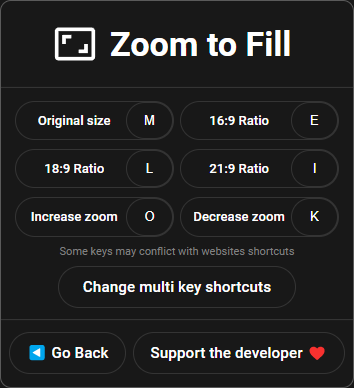
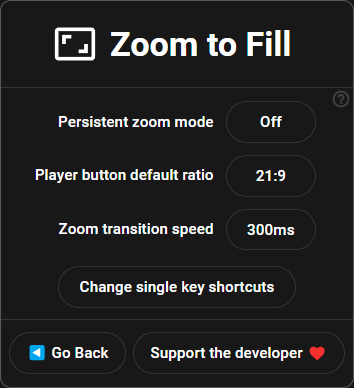
1.0

diff --git a/index.html b/index.html
@@ -29,11 +29,15 @@
                 <p>Zoom to Fill is a web browser extension for chromium browsers, as a solution for incorrect aspect
                     ratio
                     videos on ultrawide monitors.</p>
+                <p style="display: flex;align-items: center;">You can access the store link of the extension here:
+                    <a href="https://chrome.google.com/webstore/detail/zoom-to-fill-ultrawide-vi/adpjimagbfpknkodpofjphpbdlfkeiho"
+                        target="_blank"><img class="store" src="imgs/store.png"></a>
+                </p>
                 <p>
                     Sometimes, videos have fixed black bars, usually this isn't a problem, but when you are watching
                     them on unconventional aspect ratios (like 21:9) so much screen space can be wasted by a black area,
                     making the
-                    video look on the center of the screen instead of displaying truly on fullscreen. An concrete
+                    video look on the center of the screen instead of displaying truly on fullscreen. A concrete
                     example of what I mean is shown bellow.
                 </p>
                 <p>With around 60.000 users and counting, this extension offers intuitive user experience to handle
@@ -44,20 +48,20 @@
             <div>
                 <h1>So, how does it work?</h1>
                 <p>
-                    The extension calculates the relation between the true video size and the screen size and gets a
-                    number that is used to scale the video accordingly, eliminating black bars of the video.
+                    The extension calculates the relation between the true video size and the screen size and gets the
+                    scale that is gonna be applied to the video accordingly, eliminating black bars of the video.
                 </p>
-                <p>The usage is very straight foward, mainly, the extension shows it's magic by just clicking on the
+                <p style="margin-bottom: 40px;">The usage is very straight foward, mainly, the extension shows it's
+                    magic by just clicking on the
                     player button inserted on the video player, as well manually adjusting the zoom by
                     scrolling on the button too.</p>
                 <div class="video-example">
                     <span id="state">Original</span>
                     <div class="button-group">
                         <svg width="60px" height="60px" viewBox="0 0 36 36">
-                            <use class="svg-shadow" xlink:href="#svg-zoom"></use>
-                            <path id="svg-zoom" d="M25,18h-2v3h-3v2h5V18z M13,15h3v-2h-5v5h2V15z
-                                                 M27,9H9c-1.1,0-2,0.9-2,2v14c0,1.1,0.9,2,2,2h18c1.1,0,2-0.9,2-2V11C29,9.9,28.1,9,27,9z
-                                                 M27,25H9V11h18V25z" class="ytp-svg-fill"></path>
+                            <path
+                                d="M25,18h-2v3h-3v2h5V18z M13,15h3v-2h-5v5h2V15z M27,9H9c-1.1,0-2,0.9-2,2v14c0,1.1,0.9,2,2,2h18c1.1,0,2-0.9,2-2V11C29,9.9,28.1,9,27,9z M27,25H9V11h18V25z">
+                            </path>
                         </svg>
                     </div>
                     <video src="vids/birdn.m4v" autoplay loop playsinline muted></video>
@@ -67,7 +71,7 @@
                         adjust <img style="width: 25px;margin-bottom: 5px;" src="imgs/arrow.png"> </span>
                 </div>
                 <div class="manual" style="display: flex;">
-                    <p style="margin-top: 28px;">To use the manual adjusment, you have to <b>place your cursor on the
+                    <p style="margin-top: 35px;">To use the manual adjusment, you have to <b>place your cursor on the
                             button</b> and then
                         use the
                         <b>scroll</b> of your mouse to manually adjust.
@@ -76,12 +80,12 @@
                         achieve the same
                         functionality.
                     </p>
-                    <img style="height: 100%;margin-top: 30px;" src="imgs/manual.png">
+                    <img style="height: 100%;margin-top: 45px;" src="imgs/manual.png">
                 </div>
             </div>
             <div>
                 <h2>Popup interface</h2>
-                <p style="font-size: 17.7px;">The extension has incorporated a popup with tons of functionality.</p>
+                <p style="font-size: 17.7px;">The extension have incorporated a popup with tons of functionality.</p>
                 <div class="popup">
                     <img src="imgs/popup.png">
                     <img src="imgs/popup2.png">
@@ -91,6 +95,31 @@
                     <br>
                     Comes with simple controls to manually adjust your desired scale, and lower buttons let you choose a
                     predefined aspect ratio scale.
+                </p>
+
+                <p>On the settings section, you can configure different options such as:
+                    <li><b>Persistent zoom mode:</b>
+                        <ul>This means that the selected scale level will persist through the tab
+                            session.
+                            <br>For example, you are watching a series with the zoom activated, when you get to watch
+                            another
+                            episode your zoom will
+                            persist.
+                        </ul>
+                    </li>
+                    <li><b>Player button default ratio:</b>
+                        <ul>This means that you can also select which is the predefined aspect
+                            ratio you
+                            prefer to apply when clicking on the player extension button.</ul>
+                    </li>
+                    <li><b>Zoom transition speed:</b>
+                        <ul>
+                            This simply means that the smoothness of the transition of the scale can
+                            be adjusted.</ul>
+                    </li>
+                    <li><b>Keyboard shortcuts:</b>
+                        <ul>Intuitive configuration for different shortcuts can be set up</ul>
+                    </li>
                 </p>
             </div>
         </div>

diff --git a/style.css b/style.css
@@ -2,6 +2,7 @@
 
 html {
   scroll-behavior: smooth;
+  transition: all 300ms;
 }
 
 body {
@@ -120,7 +121,6 @@ img {
   flex-wrap: wrap;
 }
 
-
 .support img {
   display: block;
   margin: auto;
@@ -174,10 +174,22 @@ img {
     0px 0px 3px black;
 }
 
+.store {
+  margin: 0 20px;
+  border: 1px solid rgb(210, 210, 210);
+  background-color: rgba(245, 245, 245);
+  border-radius: 15px;
+  transition: background-color 300ms;
+}
+
+.store:hover {
+  background-color: rgba(255, 255, 255);
+}
+
 .manual img,
 .player-button img {
   border: 1px solid white;
-  border-radius: 17px;
+  border-radius: 18px;
   margin-left: 5px;
   margin-top: 15px;
   margin-bottom: 15px;
@@ -197,30 +209,12 @@ img {
   z-index: 1;
 }
 
-.button-group {
-  text-shadow:
-    0px 0px 3px black,
-    0px 0px 3px black,
-    0px 0px 3px black,
-    0px 0px 3px black,
-    0px 0px 3px black,
-    0px 0px 3px black;
-}
-
 .button-group svg {
   fill: white;
   opacity: 70%;
   transition: all 200ms;
   cursor: pointer;
-}
-
-.svg-shadow {
-  box-shadow:
-    0px 0px 5px black,
-    0px 0px 5px black,
-    0px 0px 5px black,
-    0px 0px 5px black,
-    0px 0px 5px black;
+  filter: drop-shadow(0px 0px 1px black);
 }
 
 .button-group svg:hover {
